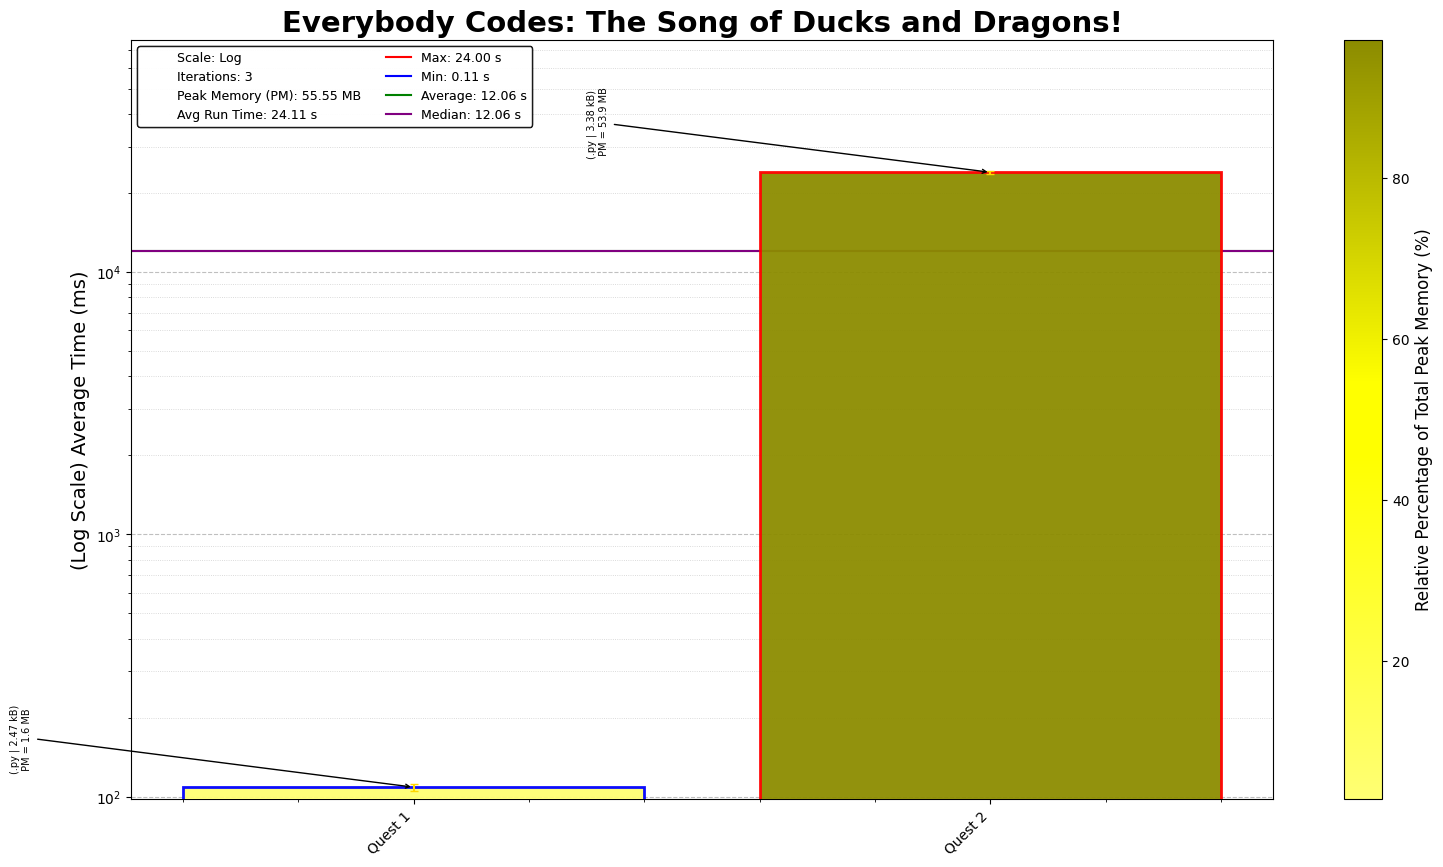
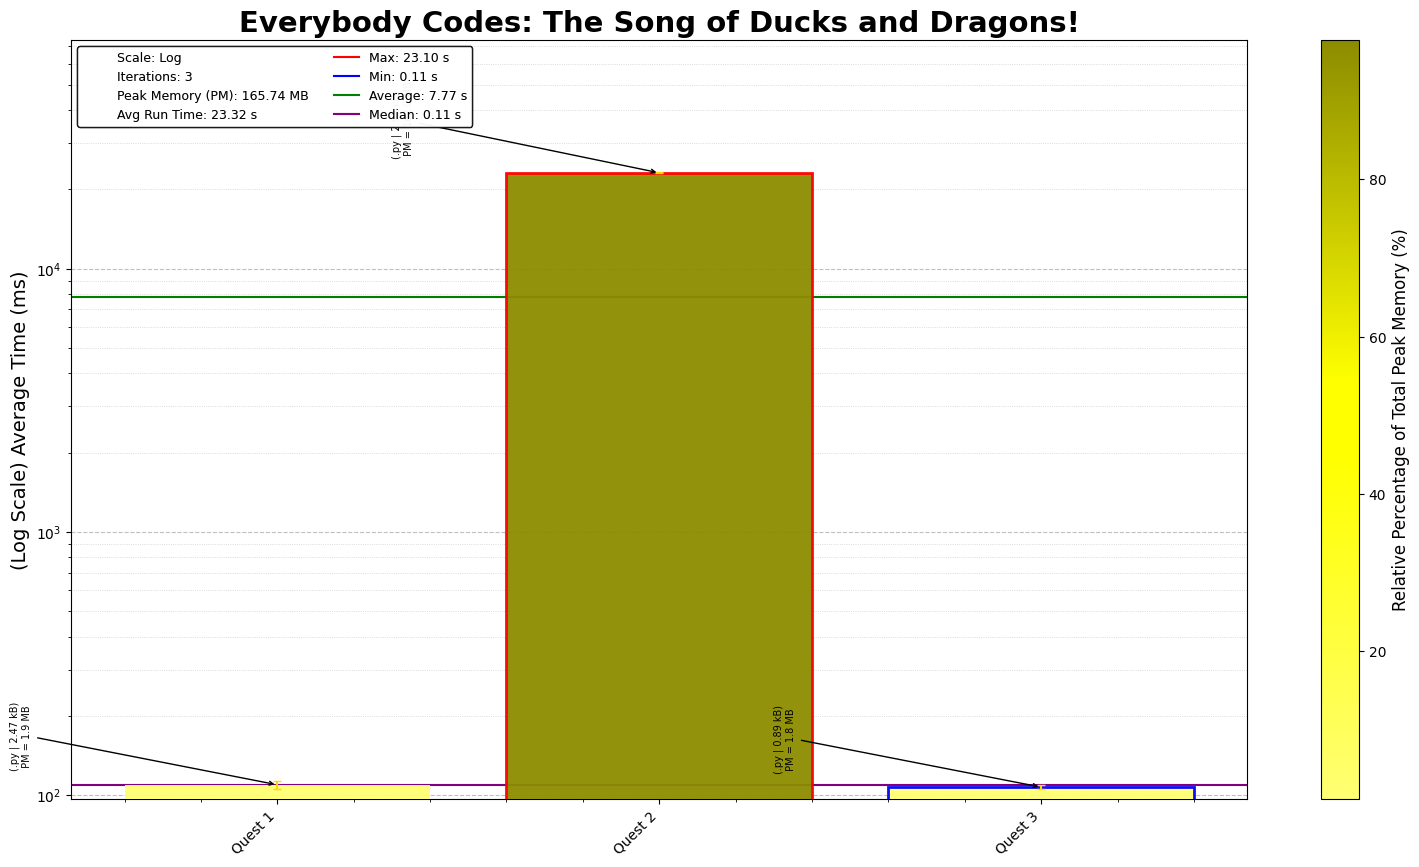
EC 2025 Quest 03: The Deepest Fit

diff --git a/2025/03/2025Day03.py b/2025/03/2025Day03.py
@@ -1,0 +1,25 @@
+"""Everybody Codes - Quest 3, Year 2025
+Solution Started: November 6, 2025
+Puzzle Link: https://everybody.codes/event/20252/quests/3
+Solution by: Abbas Moosajee
+Brief: [Code/Problem Description]"""
+
+#!/usr/bin/env python3
+from pathlib import Path
+from collections import Counter
+# List of input file names
+input_files = ["Day03_input_p1.txt", "Day03_input_p2.txt", "Day03_input_p3.txt"]
+
+def parse_input(input_str: str) -> list[int]:
+    return [int(x) for x in input_str.split(",") if x.strip()]
+
+# Read and split the input data into individual lists
+input_data_p1, input_data_p2, input_data_p3 = [
+    parse_input(open(Path(__file__).parent / file).read().strip().split('\n')[0])
+    for file in input_files
+]
+
+print("Quest 03, P1:", sum(set(input_data_p1)))
+print("Quest 03, P2:", sum(sorted(set(input_data_p2))[:20]))
+print("Quest 03, P3:", max(Counter(input_data_p3).values()))
+

diff --git a/2025/README_2025.md b/2025/README_2025.md
@@ -8,3 +8,4 @@ This repository contains coding solutions for the 2025 Everybody Codes. Each day
 
 1. **Day 1 - Whispers in the Shell**: Fairly simple challenges for list indexing and manipulation.
 2. **Day 2 - From Complex to Clarity**: Vector Math, fairly simple execution once you get over the hurdle of integer and div math.
+3. **Day 3 - The Deepest Fit**: Why write your own functions, when python can do it for you. LEARN PYTHON Kids
